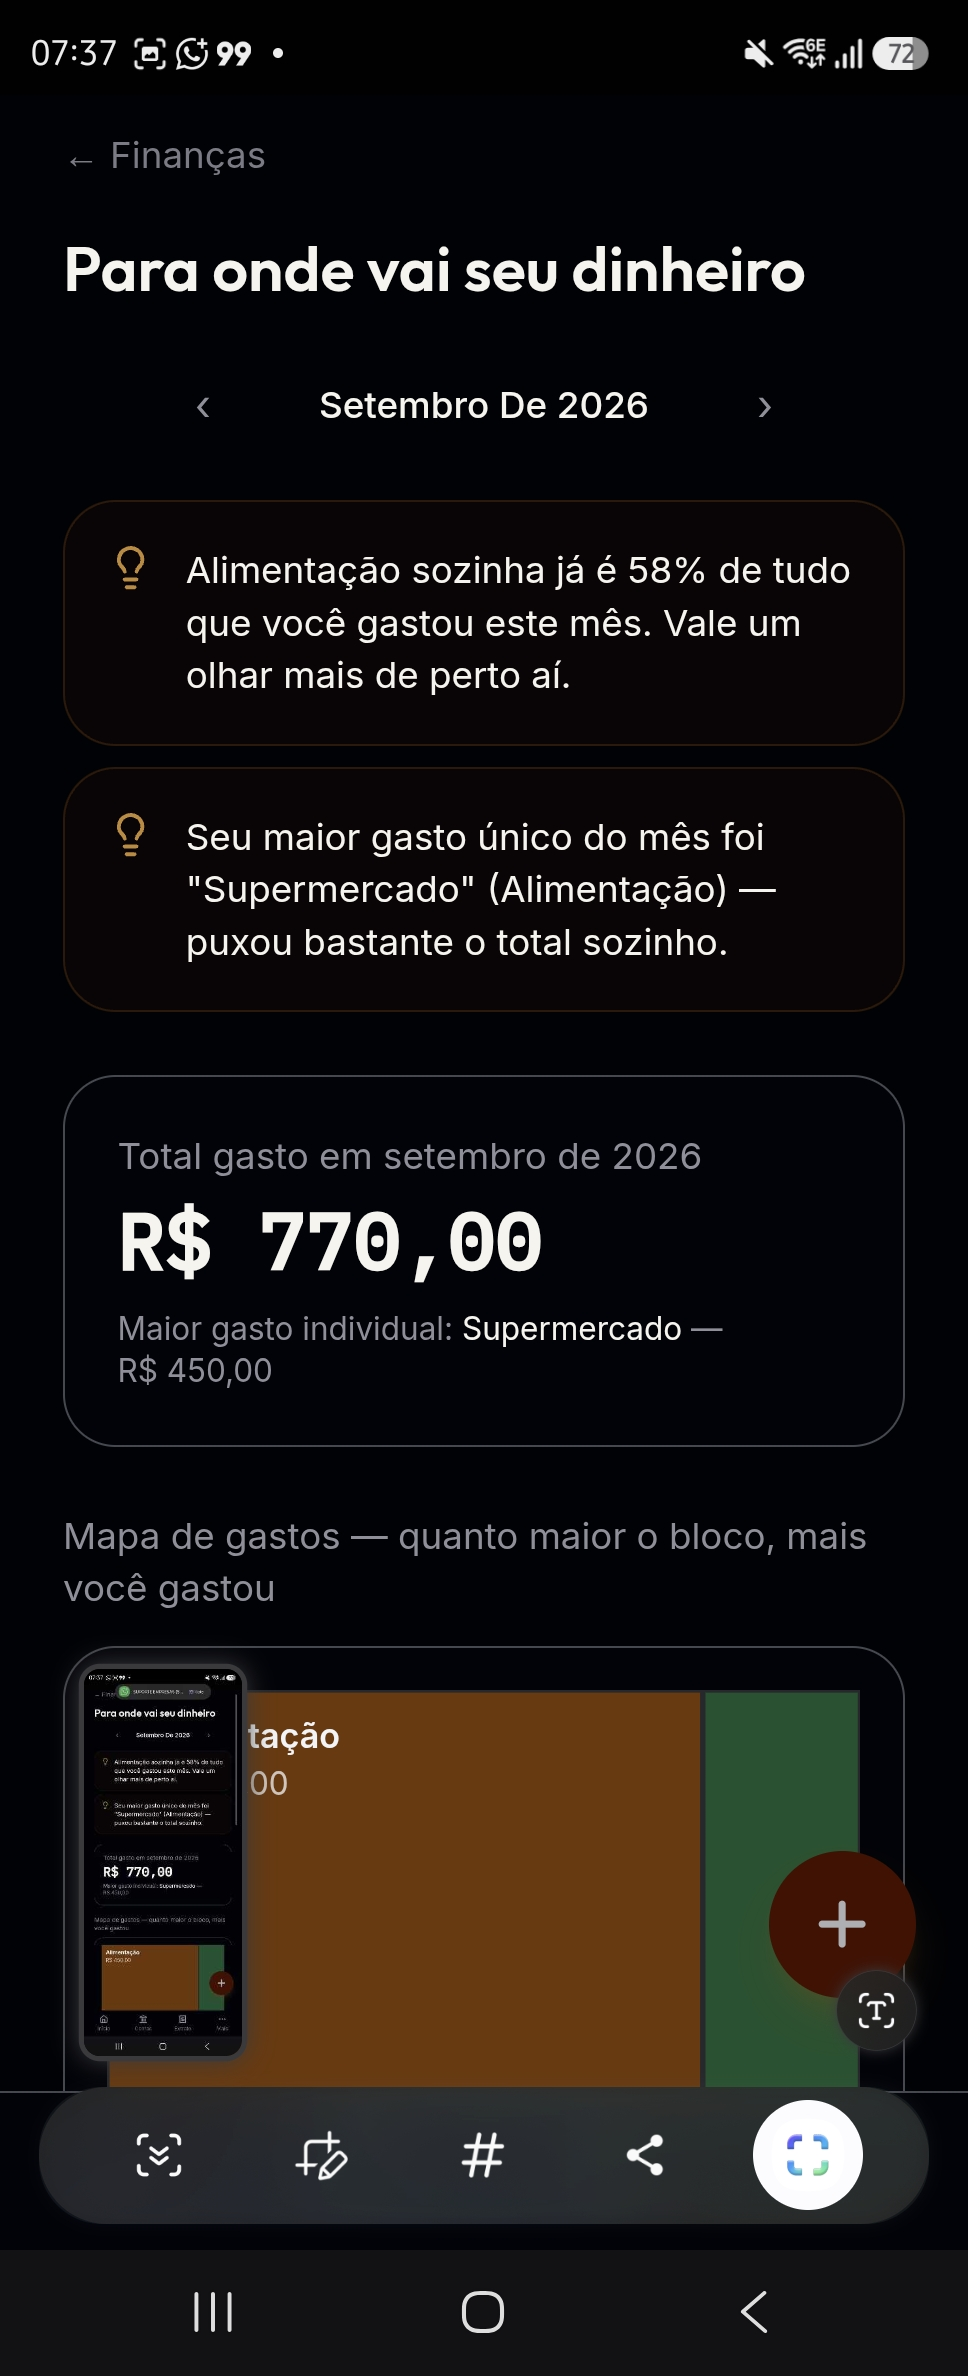
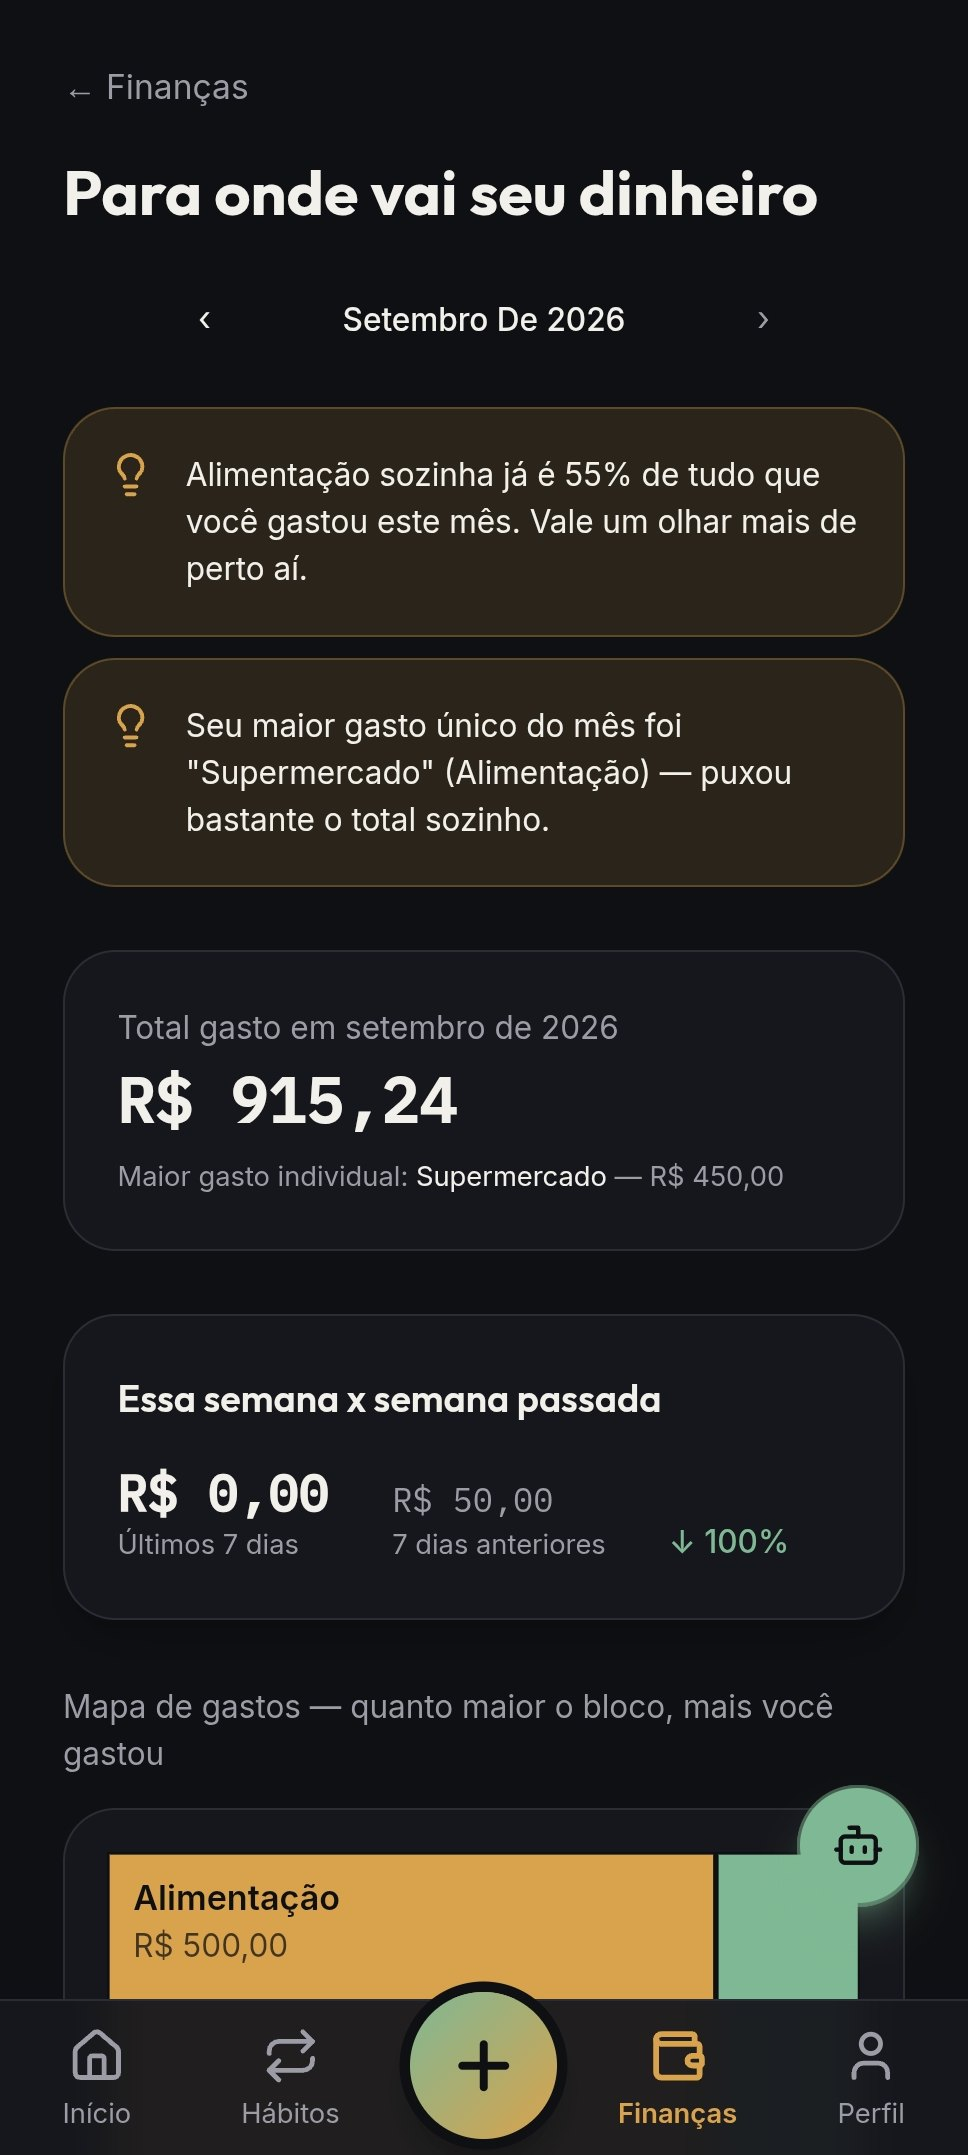
Etapa 239: apresentação com prints novos e seção Hábitos em dupla

diff --git a/app/apresentacao/page.tsx b/app/apresentacao/page.tsx
@@ -2,6 +2,7 @@ import Link from "next/link";
 import Image from "next/image";
 import { entrarComoDemonstracao } from "./actions";
 import { AoRolar } from "@/components/AoRolar";
+import { DemoJuntos } from "@/components/DemoJuntos";
 
 export const metadata = {
   title: "VidaTrack — Hábitos e finanças, num único lugar",
@@ -25,7 +26,7 @@ function BotaoDemonstracao({ className = "" }: { className?: string }) {
 function Print({ src, alt }: { src: string; alt: string }) {
   return (
     <div className="rounded-xl2 overflow-hidden border border-base-700 shadow-2xl shadow-black/40">
-      <Image src={src} alt={alt} width={968} height={2376} className="w-full h-auto" />
+      <Image src={src} alt={alt} width={968} height={2155} className="w-full h-auto" />
     </div>
   );
 }
@@ -69,18 +70,18 @@ export default function ApresentacaoPage() {
         </div>
       </section>
 
-      {/* Etapa 178 — celular na frente com outras telas espiando atrás,
-         inspirado no jeito que o Despezzas mostra o app na home deles. */}
+      {/* Celular na frente com outras telas espiando atrás.
+         Prints atualizados com o layout novo (Início, Finanças e Hábitos). */}
       <section className="max-w-3xl mx-auto px-6 pb-24">
         <div className="relative flex items-center justify-center py-6">
           <div className="hidden sm:block absolute left-1/2 -translate-x-[190px] -rotate-6 w-[220px] opacity-60 blur-[0.5px]">
-            <Print src="/apresentacao/painel-financas.jpg" alt="Saldo em contas e investido" />
+            <Print src="/apresentacao/financas.jpg" alt="Resumo de Finanças com saldo e previsão do mês" />
           </div>
           <div className="hidden sm:block absolute left-1/2 translate-x-[30px] rotate-6 w-[220px] opacity-60 blur-[0.5px]">
-            <Print src="/apresentacao/estatisticas.jpg" alt="Resumo semanal e mapa de contribuições" />
+            <Print src="/apresentacao/habitos.jpg" alt="Lista de hábitos com sequência e recorde" />
           </div>
           <div className="relative w-[260px] sm:w-[280px] z-10">
-            <Print src="/apresentacao/hoje.jpg" alt="Tela Hoje com hábitos e tarefas do dia" />
+            <Print src="/apresentacao/inicio.jpg" alt="Tela inicial do VidaTrack" />
           </div>
         </div>
       </section>
@@ -106,28 +107,28 @@ export default function ApresentacaoPage() {
           <div className="grid sm:grid-cols-2 lg:grid-cols-3 gap-6">
             <AoRolar>
             <div>
-              <Print src="/apresentacao/hoje.jpg" alt="Tela Hoje com hábitos e tarefas do dia" />
-              <p className="font-medium mt-4 mb-1">Tudo num lugar só</p>
+              <Print src="/apresentacao/hoje.jpg" alt="Tela Hoje com hábitos separados por período" />
+              <p className="font-medium mt-4 mb-1">Seu dia numa tela só</p>
               <p className="text-sm text-ink-400">
-                Hábitos e tarefas do dia, lado a lado. Marca com um toque.
+                Hábitos e tarefas separados por período, com lembrete e progresso do dia.
               </p>
             </div>
             </AoRolar>
             <AoRolar atraso={150}>
             <div>
-              <Print src="/apresentacao/estatisticas.jpg" alt="Resumo semanal e mapa de contribuições" />
-              <p className="font-medium mt-4 mb-1">Mapa do ano inteiro</p>
+              <Print src="/apresentacao/habitos.jpg" alt="Lista de hábitos com sequência atual e recorde" />
+              <p className="font-medium mt-4 mb-1">Sequência e recorde</p>
               <p className="text-sm text-ink-400">
-                Igual o de contribuições do GitHub — só que da sua constância.
+                Cada hábito mostra a sequência atual, o recorde e os últimos 7 dias.
               </p>
             </div>
             </AoRolar>
             <AoRolar atraso={300}>
             <div>
-              <Print src="/apresentacao/comparacao.jpg" alt="Comparação entre hábitos" />
-              <p className="font-medium mt-4 mb-1">Comparação entre hábitos</p>
+              <Print src="/apresentacao/timer.jpg" alt="Timer de foco com Pomodoro e tempo livre" />
+              <p className="font-medium mt-4 mb-1">Timer de foco</p>
               <p className="text-sm text-ink-400">
-                Vê de cara qual hábito está indo bem, e qual precisa de atenção.
+                Pomodoro ou tempo livre, ligado a um hábito se você quiser.
               </p>
             </div>
             </AoRolar>
@@ -139,7 +140,9 @@ export default function ApresentacaoPage() {
               "Sequência atual e recorde em cada hábito",
               "Conquistas ao bater 7, 30, 100 ou 365 dias",
               "Hábitos negativos, pra quem quer parar de fazer algo",
-              "Tarefas, categorias e timer de foco, no mesmo lugar",
+              "Modo férias: pausa tudo sem perder as sequências",
+              "Mapa do ano inteiro e comparação entre hábitos",
+              "Arraste pro lado pra marcar, com vibração e comemoração do dia",
             ].map((texto) => (
               <li key={texto} className="flex gap-2.5 bg-base-800 border border-base-700 rounded-lg px-4 py-3">
                 <span className="text-habito shrink-0">＋</span>
@@ -147,6 +150,43 @@ export default function ApresentacaoPage() {
               </li>
             ))}
           </ul>
+          </AoRolar>
+        </div>
+      </section>
+
+      {/* JUNTOS — hábitos em dupla (Etapa 239) */}
+      <section id="juntos" className="border-t border-base-700">
+        <div className="max-w-5xl mx-auto px-6 py-20 grid lg:grid-cols-2 gap-12 items-center">
+          <AoRolar>
+            <div className="flex items-center gap-3 mb-4">
+              <span className="w-3 h-3 rounded-full bg-habito shrink-0" />
+              <span className="text-xs uppercase tracking-widest text-habito font-medium">Hábitos em dupla</span>
+            </div>
+            <h2 className="font-display text-3xl sm:text-4xl font-semibold mb-4 max-w-lg">
+              Façam juntos. Vejam crescer.
+            </h2>
+            <p className="text-ink-400 leading-relaxed max-w-lg mb-8 text-lg">
+              Compartilhe um hábito com quem você ama. Cada dia que os dois fazem, a plantinha de vocês cresce — de
+              semente até árvore. Se ninguém fizer, ela murcha um pouco (e volta quando vocês retomam).
+            </p>
+            <ul className="space-y-3 text-base">
+              {[
+                ["💚", "Aviso na hora quando seu par faz o hábito"],
+                ["😄", "Uma carinha que muda: festa, esperando, preocupada, triste"],
+                ["👉", "Cutucar quem ainda não fez e reagir com ❤🔥👏"],
+                ["🙌", "Toque duplo quando os dois completam no mesmo dia"],
+                ["🌙", "O céu acompanha a hora: amanhecer, dia, fim de tarde e noite estrelada"],
+              ].map(([emoji, texto]) => (
+                <li key={texto} className="flex gap-3 items-start">
+                  <span className="text-xl shrink-0">{emoji}</span>
+                  <span className="text-ink-400">{texto}</span>
+                </li>
+              ))}
+            </ul>
+          </AoRolar>
+          <AoRolar atraso={150}>
+            <DemoJuntos />
+            <p className="text-center text-sm text-ink-400 mt-3">Isso aqui é ao vivo — o céu é o da sua hora agora.</p>
           </AoRolar>
         </div>
       </section>
@@ -172,16 +212,16 @@ export default function ApresentacaoPage() {
           <div className="grid sm:grid-cols-2 lg:grid-cols-3 gap-6">
             <AoRolar>
             <div>
-              <Print src="/apresentacao/painel-financas.jpg" alt="Saldo em contas e investido" />
-              <p className="font-medium mt-4 mb-1">Saldo, num golpe de vista</p>
+              <Print src="/apresentacao/financas.jpg" alt="Previsão de quanto vai sobrar no fim do mês" />
+              <p className="font-medium mt-4 mb-1">Quanto vai sobrar no mês</p>
               <p className="text-sm text-ink-400">
-                Contas e investido separados — sabe sempre quanto pode gastar.
+                O app soma o que ainda vai entrar e sair e mostra quanto dá pra gastar por dia.
               </p>
             </div>
             </AoRolar>
             <AoRolar atraso={150}>
             <div>
-              <Print src="/apresentacao/analise.jpg" alt="Dicas automáticas sobre os gastos" />
+              <Print src="/apresentacao/analise.jpg" alt="Para onde vai seu dinheiro, com dicas automáticas" />
               <p className="font-medium mt-4 mb-1">Dicas automáticas</p>
               <p className="text-sm text-ink-400">
                 O app aponta sozinho onde seu dinheiro está concentrado.
@@ -190,26 +230,40 @@ export default function ApresentacaoPage() {
             </AoRolar>
             <AoRolar atraso={300}>
             <div>
-              <Print src="/apresentacao/despesas-categoria.jpg" alt="Despesas por categoria" />
-              <p className="font-medium mt-4 mb-1">Gastos por categoria</p>
+              <Print src="/apresentacao/graficos.jpg" alt="Gastos por categoria e ritmo de gasto comparados ao mês passado" />
+              <p className="font-medium mt-4 mb-1">Este mês x mês passado</p>
               <p className="text-sm text-ink-400">
-                Alimentação, moradia, lazer — visual, sem planilha nenhuma.
+                Gastos por categoria e ritmo do mês, lado a lado com o mês anterior.
               </p>
             </div>
             </AoRolar>
           </div>
 
           <AoRolar>
-          <div className="mt-14 max-w-xs mx-auto">
-            <Print src="/apresentacao/recursos.jpg" alt="Recursos avançados de Finanças" />
-            <p className="text-center text-sm text-ink-400 mt-4">
-              E ainda mais: metas de economia, importar extrato, dividir despesas, patrimônio líquido...
-            </p>
+          <div className="grid sm:grid-cols-2 gap-6 mt-14 max-w-2xl mx-auto">
+            <div>
+              <Print src="/apresentacao/contas.jpg" alt="Contas com saldo e total investido" />
+              <p className="font-medium mt-4 mb-1">Contas e investimentos</p>
+              <p className="text-sm text-ink-400">
+                Saldo de cada conta, com o investido separado do dinheiro do dia a dia.
+              </p>
+            </div>
+            <div>
+              <Print src="/apresentacao/mapa-calor.jpg" alt="Mapa de calor de gastos por dia e ranking de categorias" />
+              <p className="font-medium mt-4 mb-1">Mapa de calor dos gastos</p>
+              <p className="text-sm text-ink-400">
+                Os dias em que você mais gastou saltam aos olhos, junto com o ranking do mês.
+              </p>
+            </div>
           </div>
+          <p className="text-center text-sm text-ink-400 mt-10">
+            E ainda mais: metas de economia, importar extrato, dividir despesas, patrimônio líquido...
+          </p>
 
           <ul className="grid sm:grid-cols-2 gap-3 mt-8 text-sm">
             {[
-              "Fatura de cartão de crédito de verdade, com vencimento",
+              "Fatura de cartão de verdade, com aviso no dia de pagar",
+              "Gráfico do que saiu e do que entrou, lado a lado",
               "Metas de economia e aviso de orçamento estourado",
               "Divide despesa com outra pessoa, sem planilha",
               "Importa extrato do banco (OFX ou CSV)",
@@ -223,6 +277,28 @@ export default function ApresentacaoPage() {
             ))}
           </ul>
           </AoRolar>
+        </div>
+      </section>
+
+      {/* Tema claro ou escuro */}
+      <section className="border-t border-base-700">
+        <div className="max-w-5xl mx-auto px-6 py-20">
+          <AoRolar>
+          <h2 className="font-display text-3xl sm:text-4xl font-semibold mb-4 text-center">
+            Claro ou escuro, do seu jeito
+          </h2>
+          <p className="text-ink-400 leading-relaxed max-w-md mx-auto mb-14 text-lg text-center">
+            Troca o tema com um toque. E o Início é montado por você: só hábitos, só finanças ou os dois.
+          </p>
+          </AoRolar>
+          <div className="grid grid-cols-2 gap-4 sm:gap-8 max-w-xl mx-auto">
+            <AoRolar>
+              <Print src="/apresentacao/inicio-claro.jpg" alt="Tela inicial no tema claro" />
+            </AoRolar>
+            <AoRolar atraso={150}>
+              <Print src="/apresentacao/inicio.jpg" alt="Tela inicial no tema escuro" />
+            </AoRolar>
+          </div>
         </div>
       </section>
 
@@ -258,7 +334,7 @@ export default function ApresentacaoPage() {
                 {
                   pergunta: "Dá pra usar com outra pessoa?",
                   resposta:
-                    "Sim. Você pode compartilhar contas e hábitos com quem quiser — cada um entra com a própria conta.",
+                    "Sim. Você compartilha contas e hábitos com quem quiser — cada um entra com a própria conta. Nos hábitos em dupla, vocês recebem aviso quando o outro faz, se cutucam e cuidam juntos de uma plantinha.",
                 },
               ].map((item) => (
                 <details key={item.pergunta} className="group bg-base-800 border border-base-700 rounded-xl2 px-5 py-4">
@@ -299,6 +375,7 @@ export default function ApresentacaoPage() {
               <p className="text-xs uppercase tracking-widest text-ink-400/70 mb-3">Produto</p>
               <div className="flex flex-col gap-2 text-sm text-ink-400">
                 <Link href="#hábitos" className="hover:text-ink-100 transition">Hábitos</Link>
+                <Link href="#juntos" className="hover:text-ink-100 transition">Juntos</Link>
                 <Link href="#finanças" className="hover:text-ink-100 transition">Finanças</Link>
                 <Link href="#faq" className="hover:text-ink-100 transition">Perguntas frequentes</Link>
               </div>

diff --git a/components/DemoJuntos.tsx b/components/DemoJuntos.tsx
@@ -1,0 +1,47 @@
+"use client";
+
+// Etapa 239 — na página de apresentação: a cena do "Juntos" ao vivo,
+// com plantinhas de exemplo e o céu da hora de quem está vendo.
+import { useEffect, useState } from "react";
+import { CenaJuntos } from "@/components/CenaJuntos";
+import { CarinhaDupla } from "@/components/CarinhaDupla";
+import { PlantaDupla } from "@/components/PlantaDupla";
+import { periodoDoDia, type PeriodoDoDia } from "@/lib/painel/periodo";
+import type { HumorDupla } from "@/lib/habitos/dupla";
+
+const VAZIO_ACIMA = [58, 54, 44, 32, 24, 18, 8];
+const EXEMPLOS: { nome: string; estagio: number; humor: HumorDupla; texto: string }[] = [
+  { nome: "Bíblia", estagio: 5, humor: "festa", texto: "🔥 32 juntos" },
+  { nome: "Caminhar", estagio: 3, humor: "esperandoVoce", texto: "Ana já fez" },
+  { nome: "Ler", estagio: 1, humor: "esperandoParceiro", texto: "Falta o Léo" },
+];
+
+export function DemoJuntos() {
+  const [periodo, setPeriodo] = useState<PeriodoDoDia>("dia");
+  useEffect(() => setPeriodo(periodoDoDia(new Date().getHours())), []);
+  const tamanho = 80;
+  const escala = (tamanho * 1.2) / 96;
+
+  return (
+    <div className="bg-base-800 border border-base-700 rounded-3xl p-4 shadow-2xl shadow-black/40">
+      <CenaJuntos periodo={periodo} festa>
+        {EXEMPLOS.map((e, i) => (
+          <div key={e.nome} className="flex flex-col items-center">
+            <span className="animate-boiar relative z-10" style={{ marginBottom: -(Math.round(VAZIO_ACIMA[e.estagio] * escala) - 6), animationDelay: `${-i * 0.6}s` }}>
+              <CarinhaDupla humor={e.humor} tamanho={34} />
+            </span>
+            <PlantaDupla estagio={e.estagio} saude={2} tamanho={tamanho} />
+          </div>
+        ))}
+      </CenaJuntos>
+      <div className="grid grid-cols-3 gap-2 mt-3 text-center">
+        {EXEMPLOS.map((e) => (
+          <div key={e.nome}>
+            <p className="text-sm font-medium">{e.nome}</p>
+            <p className="text-xs text-ink-400">{e.texto}</p>
+          </div>
+        ))}
+      </div>
+    </div>
+  );
+}
